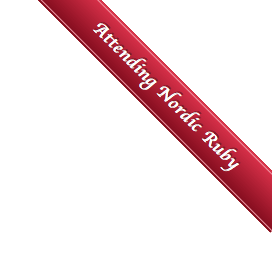
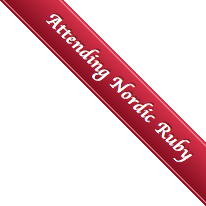
Decrease size of nordic ruby ribbon

Changed region(s): [[0.0, 0.0, 1.0, 1.0]]

diff --git a/_layouts/image.html b/_layouts/image.html
@@ -5,7 +5,7 @@
   </head>
   <body>
     <a class="ribbon" href="http://nordicruby.org/">
-      <img height="273" src="/images/ribbon.png" width="272">
+      <img height="206" src="/images/ribbon.png" width="206">
     </a>
     <div class="main">
       {% include common/header.html %}

diff --git a/_layouts/link.html b/_layouts/link.html
@@ -5,7 +5,7 @@
   </head>
   <body>
     <a class="ribbon" href="http://nordicruby.org/">
-      <img height="273" src="/images/ribbon.png" width="272">
+      <img height="206" src="/images/ribbon.png" width="206">
     </a>
     <div class="main">
       {% include common/header.html %}

diff --git a/_layouts/page.html b/_layouts/page.html
@@ -5,7 +5,7 @@
   </head>
   <body>
     <a class="ribbon" href="http://nordicruby.org/">
-      <img height="273" src="/images/ribbon.png" width="272">
+      <img height="206" src="/images/ribbon.png" width="206">
     </a>
     <div class="main">
       {% include common/header.html %}

diff --git a/_layouts/post.html b/_layouts/post.html
@@ -5,7 +5,7 @@
   </head>
   <body>
     <a class="ribbon" href="http://nordicruby.org/">
-      <img height="273" src="/images/ribbon.png" width="272">
+      <img height="206" src="/images/ribbon.png" width="206">
     </a>
     <div class="main">
       {% include common/header.html %}

diff --git a/_layouts/quote.html b/_layouts/quote.html
@@ -5,7 +5,7 @@
   </head>
   <body>
     <a class="ribbon" href="http://nordicruby.org/">
-      <img height="273" src="/images/ribbon.png" width="272">
+      <img height="206" src="/images/ribbon.png" width="206">
     </a>
     <div class="main">
       {% include common/header.html %}
